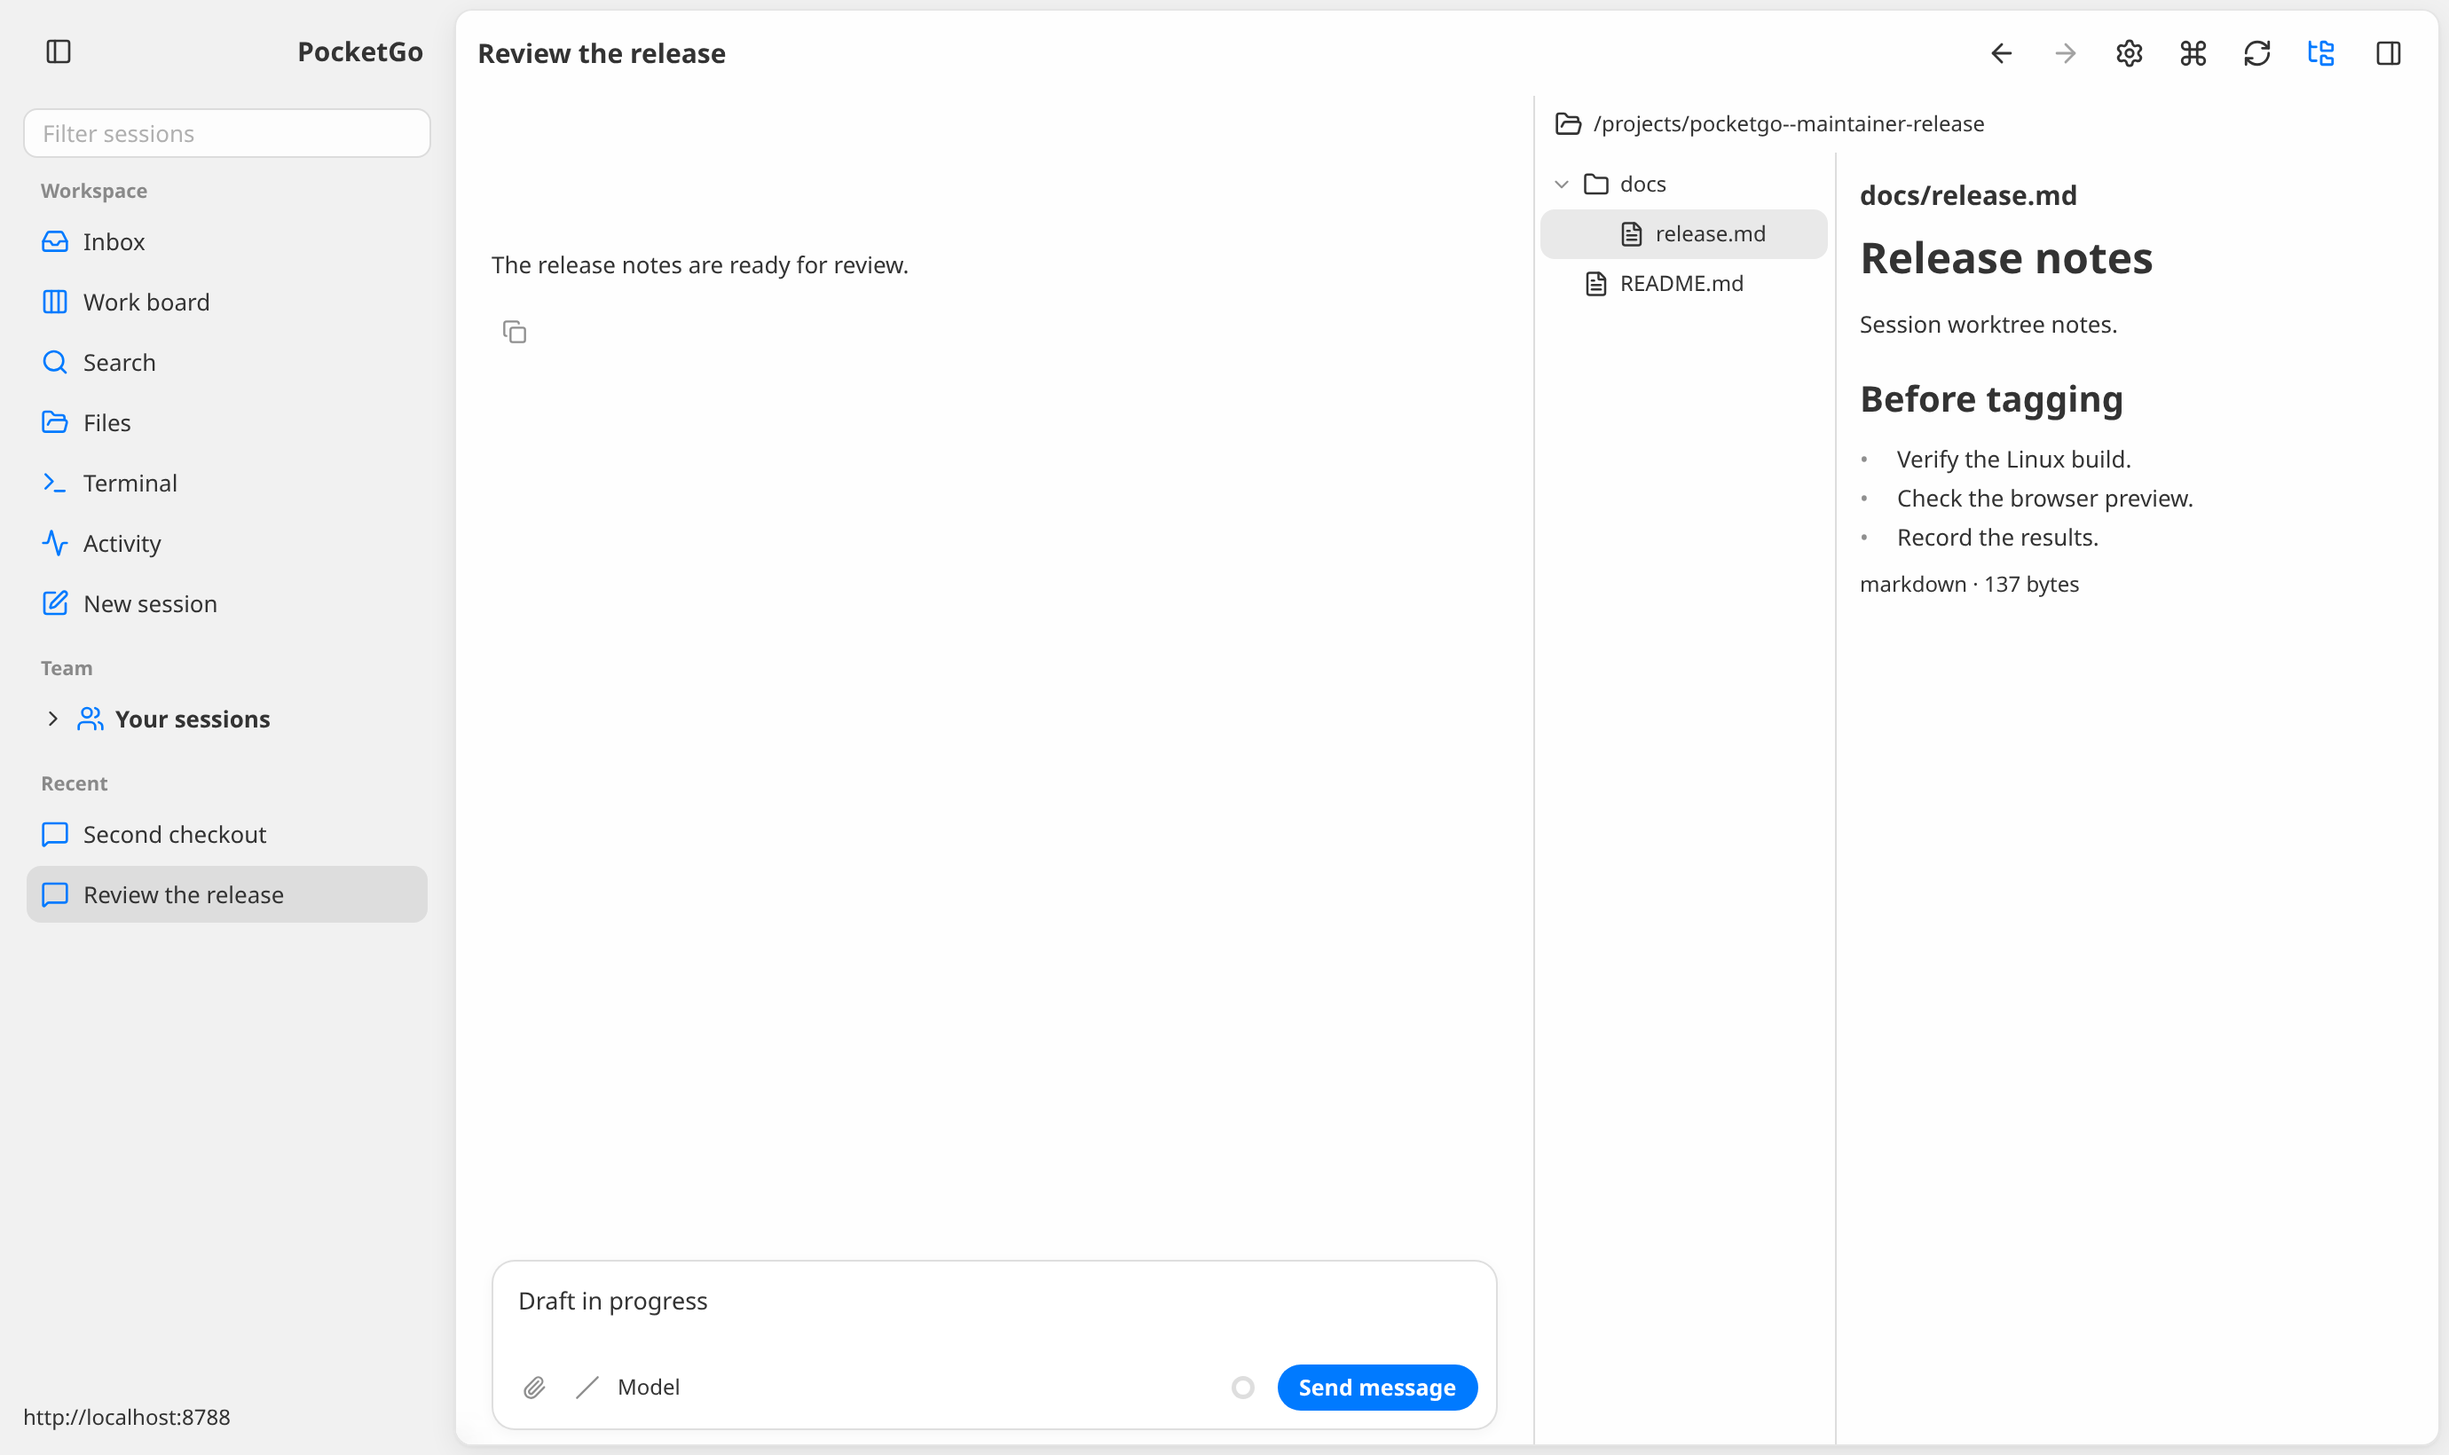
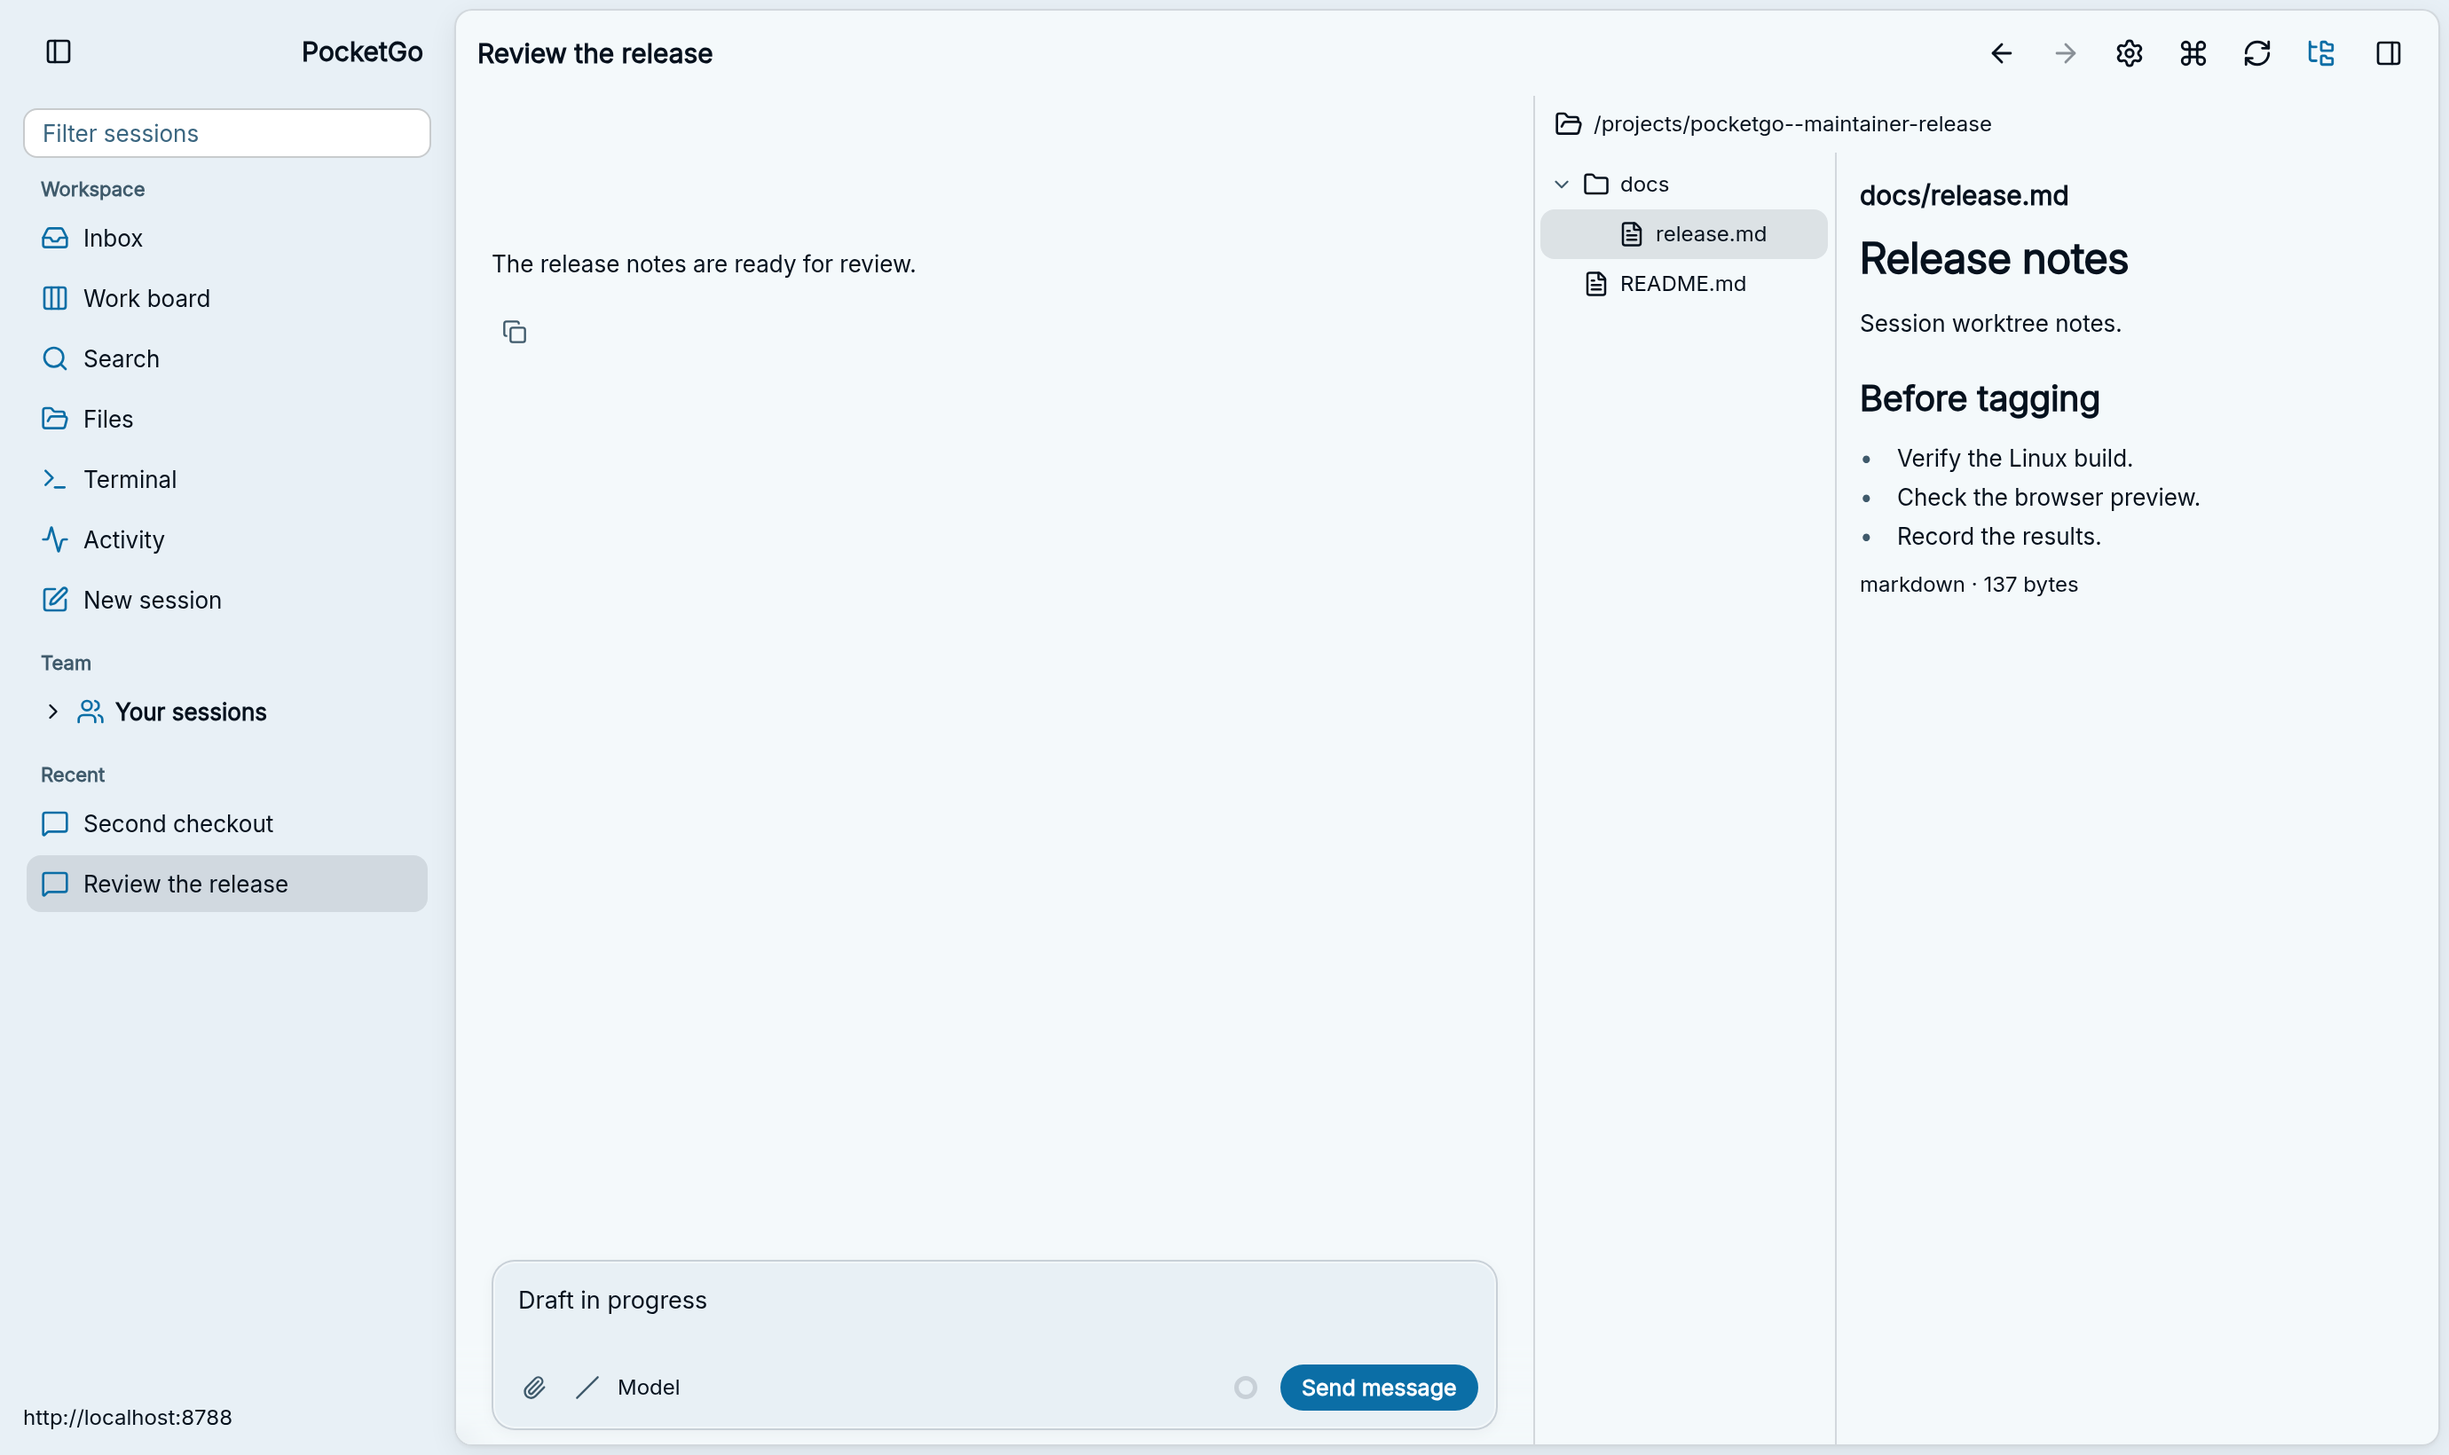
feat(desktop): draw the NSGo client in the Frostyard themes
Take github.com/frostyard/frostui/workspaceui v0.2.0, which holds the
Frostyard look: a dark and a light theme under NSGo's color roles, and
the bundled Inter font.

- The client calls workspaceui.Apply once at its root and puts its
  views in workspaceui.Frame, which paints the ground and sets the
  text's color and font. The view inside the frame keeps the Zoom
  setting's transform. A font the platform refuses is named in Activity.
- The Theme setting is the kit's AppearanceChoice, a segmented control
  of System, Light and Dark, in place of the select. The storage key
  (appearance) and its values (System, Light, Dark) are unchanged.
- The saved theme is shown from the client's root (appearance.go), no
  longer from the accounts' restore, so the headless suite covers it.
- Seven tests chose Dark by opening the select first; that press is
  gone with the select, and they press Dark on the segmented control.
- New tests: a saved theme applies, a choice shows and is kept, the
  control fits a compact window, and the frame keeps the zoom.
- make nsgo-live runs the suite in a real Linux window under Xvfb on
  X11, and make nsgo-pictures takes comparison/linux again. Both
  comparison folders are retaken in the new look.

diff --git a/desktop/internal/nsgoclient/appearance_test.go b/desktop/internal/nsgoclient/appearance_test.go
@@ -1,0 +1,109 @@
+package nsgoclient
+
+import (
+	"testing"
+
+	"github.com/frostyard/pocketgo/desktop/internal/pocketdtest"
+	"github.com/nsgo-dev/nsgo/core"
+	"github.com/nsgo-dev/nsgo/nsgotest"
+)
+
+// Frostyard's grounds, from the kit's spec: the window's root paints them.
+const (
+	frostyardDarkGround  = 0x06111d
+	frostyardLightGround = 0xf5f9fc
+)
+
+// A theme saved by an earlier build, under the same key and names, still
+// shows at the start, and the window's root paints Frostyard's ground for it.
+func TestSavedThemeApplies(t *testing.T) {
+	for _, tc := range []struct {
+		saved  string
+		want   core.Appearance
+		ground core.Color
+	}{
+		{"Dark", core.AppearanceDark, core.RGB(frostyardDarkGround)},
+		{"Light", core.AppearanceLight, core.RGB(frostyardLightGround)},
+		{"System", core.AppearanceSystem, 0},
+		{"", core.AppearanceSystem, 0},
+	} {
+		t.Run("saved "+tc.saved, func(t *testing.T) {
+			var opts []nsgotest.Option
+			if tc.saved != "" {
+				opts = append(opts, nsgotest.Storage(map[string]string{"appearance": tc.saved}))
+			}
+			app := nsgotest.Start(t, func(cx *core.Scope) core.Node { return newClient(cx, pocketdtest.New().Transport()) }, opts...)
+			if app.Appearance != tc.want {
+				t.Fatalf("the app asked for appearance %v, want %v", app.Appearance, tc.want)
+			}
+			if got := app.Find("id:frame").Style.Background; tc.ground != 0 && got != tc.ground {
+				t.Fatalf("the window's ground is %#x, want %#x", uint32(got), uint32(tc.ground))
+			}
+		})
+	}
+}
+
+// The Theme setting shows a choice at once, repaints the ground, and keeps
+// the choice under the names the earlier select saved.
+func TestThemeChoiceIsKept(t *testing.T) {
+	app := signedInApp(t, pocketdtest.New(), 1230, 800)
+	app.Press("label:Settings")
+	app.Find("label:Appearance")
+	for _, tc := range []struct {
+		name   string
+		want   core.Appearance
+		ground core.Color
+	}{
+		{"Dark", core.AppearanceDark, core.RGB(frostyardDarkGround)},
+		{"System", core.AppearanceSystem, 0},
+		{"Light", core.AppearanceLight, core.RGB(frostyardLightGround)},
+	} {
+		app.Press("text:" + tc.name)
+		if app.Appearance != tc.want {
+			t.Fatalf("after %s the app asked for appearance %v, want %v", tc.name, app.Appearance, tc.want)
+		}
+		if got, _ := app.Storage().GetItem("appearance"); got != tc.name {
+			t.Fatalf("after %s the kept theme is %q", tc.name, got)
+		}
+		if got := app.Find("id:frame").Style.Background; tc.ground != 0 && got != tc.ground {
+			t.Fatalf("after %s the window's ground is %#x, want %#x", tc.name, uint32(got), uint32(tc.ground))
+		}
+	}
+}
+
+// The Theme control stays inside a narrow window's settings.
+func TestThemeChoiceFitsACompactWindow(t *testing.T) {
+	app := signedInApp(t, pocketdtest.New(), 390, 730)
+	app.Press("label:Navigation")
+	app.Press("label:Settings")
+	choice := app.WaitFor("label:Appearance", 0).Bounds()
+	if choice.Origin.X < 0 || choice.Origin.X+choice.Size.Width > 390 {
+		t.Fatalf("the Theme control spans %v to %v in a window 390 wide", choice.Origin.X, choice.Origin.X+choice.Size.Width)
+	}
+}
+
+// The frame fills the window at every zoom; the view inside it lays the
+// workspace out at the window's size divided by the zoom, then scales it.
+func TestTheFrameKeepsTheZoom(t *testing.T) {
+	for _, tc := range []struct {
+		saved         string
+		width, height core.Points
+	}{
+		{"", 1230, 800},
+		{"1.25", 984, 640},
+	} {
+		t.Run("zoom "+tc.saved, func(t *testing.T) {
+			var opts []nsgotest.Option
+			if tc.saved != "" {
+				opts = append(opts, nsgotest.Storage(map[string]string{"zoom": tc.saved}))
+			}
+			app := signedInApp(t, pocketdtest.New(), 1230, 800, opts...)
+			if frame := app.Find("id:frame").Frame; frame.Origin != (core.Point{}) || frame.Size.Width != 1230 || frame.Size.Height != 800 {
+				t.Fatalf("the frame is %+v, want the window, 1230 by 800", frame)
+			}
+			if zoom := app.Find("id:zoom").Frame.Size; zoom.Width != tc.width || zoom.Height != tc.height {
+				t.Fatalf("the zoomed view is laid out %v by %v, want %v by %v", zoom.Width, zoom.Height, tc.width, tc.height)
+			}
+		})
+	}
+}

diff --git a/desktop/internal/nsgoclient/client.go b/desktop/internal/nsgoclient/client.go
@@ -58,9 +58,16 @@ func newClient(cx *core.Scope, transport http.RoundTripper) core.Node {
 }
 func buildClient(cx *core.Scope, transport http.RoundTripper, production bool) core.Node {
 	cx.SetTitle("PocketGo")
+	// The Frostyard theme is set even when the platform refuses the bundled
+	// font: the text then shows in the system's sans-serif face.
+	fontErr := workspaceui.Apply(cx)
 	c := &client{cx: cx, revision: core.NewSignal(cx, 0), page: core.NewSignal(cx, "Inbox"),
 		session: core.NewSignal(cx, int64(0)), notices: core.NewSignal(cx, (*workspaceui.Notice)(nil)), filter: core.NewSignal(cx, ""), drafts: map[int64]*core.Signal[string]{}}
 	c.seek = core.NewSignal(cx, int64(0))
+	if fontErr != nil {
+		c.log = append(c.log, "Register the Inter font: "+fontErr.Error())
+	}
+	c.restoreAppearance()
 	c.browserHistory = production && runtime.GOOS == "js"
 	c.fileRoute = core.NewSignal(cx, destination{})
 	c.fileRefresh = core.NewSignal(cx, 0)
@@ -106,9 +113,11 @@ func buildClient(cx *core.Scope, transport http.RoundTripper, production bool) c
 		c.platformAccounts()
 		c.restore()
 	}
-	return core.View{Style: core.Style{TransformOrigin: core.ObjectPosition{X: core.PositionStart, Y: core.PositionStart}}, StyleFunc: func() core.Style {
+	// The frame paints the ground and sets the text's color and font; the
+	// view inside it only zooms.
+	return workspaceui.Frame(core.View{TestID: "zoom", Style: core.Style{TransformOrigin: core.ObjectPosition{X: core.PositionStart, Y: core.PositionStart}}, StyleFunc: func() core.Style {
 		z := c.zoom.Get()
-		return core.Style{Width: core.Pct(100 / z), Height: core.Pct(100 / z), Transform: core.Transform{Scale: z}, Background: cx.Palette().Background, Color: cx.Palette().Text}
+		return core.Style{Width: core.Pct(100 / z), Height: core.Pct(100 / z), Transform: core.Transform{Scale: z}}
 	}, Children: []core.Node{
 		core.Show{When: func() bool { c.revision.Get(); return c.store.SignedIn() }, Then: c.workspace, Else: c.signIn},
 		core.Dynamic(func(*core.Scope) core.Node {
@@ -117,7 +126,7 @@ func buildClient(cx *core.Scope, transport http.RoundTripper, production bool) c
 			}
 			return nil
 		}),
-	}}
+	}})
 }
 
 func (c *client) changed() {

diff --git a/desktop/internal/nsgoclient/settings.go b/desktop/internal/nsgoclient/settings.go
@@ -44,13 +44,7 @@ func (c *client) generalSettings(cx *core.Scope) []ui.SettingsItem {
 		rows = append(rows, ui.SettingsItem{ID: "version", Title: "PocketGo", Description: "App version", Control: body(version)})
 	}
 	field := core.Style{Width: core.Pt(140)}
-	theme := ui.Select[core.Appearance]{Label: "Theme", Style: field, Value: cx.Env().Appearance, Options: []ui.Option[core.Appearance]{
-		{Value: core.AppearanceSystem, Label: "System"}, {Value: core.AppearanceLight, Label: "Light"}, {Value: core.AppearanceDark, Label: "Dark"},
-	}, OnChange: func(mode core.Appearance) {
-		c.cx.SetAppearance(mode)
-		name := map[core.Appearance]string{core.AppearanceSystem: "System", core.AppearanceLight: "Light", core.AppearanceDark: "Dark"}[mode]
-		c.result(c.cx.Storage().SetItem("appearance", name))
-	}}
+	theme := workspaceui.AppearanceChoice{Value: cx.Env().Appearance, OnChange: c.saveAppearance}
 	var sizes []ui.Option[string]
 	for _, s := range state.ZoomLabels() {
 		sizes = append(sizes, ui.Option[string]{Value: s, Label: s})

diff --git a/desktop/internal/nsgoclient/appearance.go b/desktop/internal/nsgoclient/appearance.go
@@ -1,0 +1,31 @@
+package nsgoclient
+
+import "github.com/nsgo-dev/nsgo/core"
+
+// The Theme setting is this device's: the client's storage keeps it under
+// appearanceKey as "System", "Light" or "Dark". No entry follows the system.
+const appearanceKey = "appearance"
+
+// restoreAppearance shows the saved choice. It runs after workspaceui.Apply
+// and before the first view is built.
+func (c *client) restoreAppearance() {
+	switch mode, _ := c.cx.Storage().GetItem(appearanceKey); mode {
+	case "Dark":
+		c.cx.SetAppearance(core.AppearanceDark)
+	case "Light":
+		c.cx.SetAppearance(core.AppearanceLight)
+	}
+}
+
+// saveAppearance keeps the choice Settings made. The kit's control has
+// already shown it.
+func (c *client) saveAppearance(mode core.Appearance) {
+	name := "System"
+	switch mode {
+	case core.AppearanceLight:
+		name = "Light"
+	case core.AppearanceDark:
+		name = "Dark"
+	}
+	c.result(c.cx.Storage().SetItem(appearanceKey, name))
+}

diff --git a/desktop/internal/nsgoclient/accounts.go b/desktop/internal/nsgoclient/accounts.go
@@ -32,11 +32,6 @@ func (c *client) credentialJob(work func()) {
 	}()
 }
 func (c *client) restore() {
-	if mode, _ := c.cx.Storage().GetItem("appearance"); mode == "Dark" {
-		c.cx.SetAppearance(core.AppearanceDark)
-	} else if mode == "Light" {
-		c.cx.SetAppearance(core.AppearanceLight)
-	}
 	server, _ := c.cx.Storage().GetItem("connected-server")
 	if server == "" || c.creds == nil {
 		return

diff --git a/desktop/internal/nsgoclient/notice_test.go b/desktop/internal/nsgoclient/notice_test.go
@@ -14,7 +14,6 @@ func TestFolderErrorToast(t *testing.T) {
 	s.AddSession(proto.Session{ID: 52349, Title: "Release worktree", Cwd: "/projects/release", State: proto.SessionIdle})
 	app := signedInApp(t, s, 1230, 800)
 	app.Press("label:Settings")
-	app.Press("label:Theme")
 	app.Press("text:Dark")
 	app.Press("label:Close settings")
 	app.Press("text:Release worktree")

diff --git a/desktop/internal/nsgoclient/inbox_cards_test.go b/desktop/internal/nsgoclient/inbox_cards_test.go
@@ -18,7 +18,6 @@ func TestMixedInboxCards(t *testing.T) {
 	s.AddLesson(lesson)
 	app := signedInApp(t, s, 1230, 980)
 	app.Press("label:Settings")
-	app.Press("label:Theme")
 	app.Press("text:Dark")
 	app.Press("label:Close settings")
 	for _, label := range []string{"Session question", "Tool approval", "Plan review", "New lesson", "Approve plan", "Approve lesson"} {

diff --git a/desktop/internal/nsgoclient/settings_test.go b/desktop/internal/nsgoclient/settings_test.go
@@ -17,7 +17,6 @@ func TestSettingsDialog(t *testing.T) {
 	composer := app.Find("label:Message").ID
 	app.Press("label:Settings")
 	app.WaitFor("id:settings-sidebar", 3*time.Second)
-	app.Press("label:Theme")
 	app.Press("text:Dark")
 	app.Screenshot("settings")
 	app.Type("label:Search settings", "approvals")

diff --git a/desktop/internal/nsgoclient/asks_test.go b/desktop/internal/nsgoclient/asks_test.go
@@ -20,7 +20,6 @@ func TestInboxAsks(t *testing.T) {
 	s.AddAsk(second)
 	app := signedInApp(t, s, 1230, 800)
 	app.Press("label:Settings")
-	app.Press("label:Theme")
 	app.Press("text:Dark")
 	app.Press("label:Close settings")
 	app.WaitFor("text:2 asks wait for you", 3*time.Second)

diff --git a/desktop/internal/nsgoclient/pull_card_test.go b/desktop/internal/nsgoclient/pull_card_test.go
@@ -14,7 +14,6 @@ func TestInboxPullCard(t *testing.T) {
 	s.AddPull(p)
 	app := signedInApp(t, s, 1230, 800)
 	app.Press("label:Settings")
-	app.Press("label:Theme")
 	app.Press("text:Dark")
 	app.Press("label:Close settings")
 	app.WaitFor("text:Checks pending", 3*time.Second)

diff --git a/desktop/internal/nsgoclient/sidebar_test.go b/desktop/internal/nsgoclient/sidebar_test.go
@@ -25,7 +25,6 @@ func TestAgentSessionHierarchy(t *testing.T) {
 	}
 	app := signedInApp(t, s, 1230, 800)
 	app.Press("label:Settings")
-	app.Press("label:Theme")
 	app.Press("text:Dark")
 	app.Press("label:Close settings")
 	app.Press("label:Draft announcement")

diff --git a/desktop/internal/nsgoclient/board_test.go b/desktop/internal/nsgoclient/board_test.go
@@ -29,7 +29,6 @@ func TestWorkBoard(t *testing.T) {
 	}
 	app := signedInApp(t, s, 1230, 800)
 	app.Press("label:Settings")
-	app.Press("label:Theme")
 	app.Press("text:Dark")
 	app.Press("label:Close settings")
 	app.Press("text:Work board")
